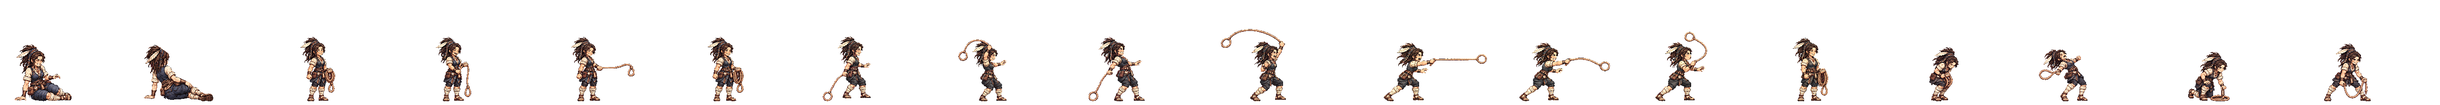
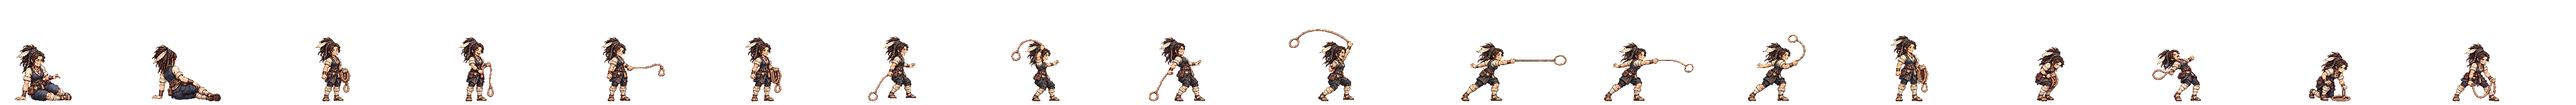
비라 휘두름: a 줄은 옛 판 · b 줄은 새 판(L34)으로 섞어 다시 설치 · 칸 폭 304 · 파란 팔 이름 박기는 안 먹음(기록)
Claude-Session: https://claude.ai/code/session_01TRiuN7s6aDfSnaHxrkctmU

diff --git a/tools/sprite-kit/anim-harness.py b/tools/sprite-kit/anim-harness.py
@@ -122,7 +122,7 @@ HEROES = {
     'bulmae': dict(hit=True, strip='gen-base-w-38-sangdang-bulmae', atk='chop', atk8=True, act=True),   # 상당 불매(쇠망치 · 가슴 M) · 11-25 도끼·망치 묶음
     'gom': dict(hit=True, strip='gen-gom', atk='chop', atk8=True, act=True, legacy=(('a', 1), ('b', 3), ('b', 3), ('b', 4))),   # 웅천 곰(가시 몽둥이 · 가슴 M) · 11-25 도끼·망치 묶음
     'malgalgi': dict(hit=True, strip='gen-malgalgi', atk='whip', actw=288, atk8=True, act=True, backfoot=True, legacy=(('a', 1), ('a', 3), ('b', 3), ('b', 4))),   # 사벌 말갈기(채찍 · 가슴 M · 배우는 판 장수) · 11-25 채찍 인형 시제품(뒷발 박힘 · 앞발 내딛음)
-    'bira': dict(hit=True, strip='gen-bira', atk='whip', src='lassof', actw=288, backfoot=True, atk8=True, act=True, legacy=(('a', 1), ('a', 3), ('b', 3), ('b', 4))),   # 미추홀 비라(밧줄 올가미 · 먼 손에 쥠 · 우람한 뼈대) · 11-25 밧줄 퍼뜨리기(말갈기 인형 whip 변형 lassof)
+    'bira': dict(hit=True, strip='gen-bira', atk='whip', src='lassof', actw=304, backfoot=True, atk8=True, act=True, legacy=(('a', 1), ('a', 3), ('b', 3), ('b', 4))),   # 미추홀 비라(밧줄 올가미 · 먼 손에 쥠 · 우람한 뼈대) · 11-25 밧줄 퍼뜨리기(말갈기 인형 whip 변형 lassof)
     'base-w-43-uga-nuri': dict(hit=True, strip='gen-base-w-43-uga-nuri', atk='whip', src='whip2f', actw=288, backfoot=True, atk8=True, act=True, legacy=(('a', 1), ('a', 3), ('b', 3), ('b', 4))),   # 우가 누리(밧줄 · 먼 손에 쥠 · 가슴 XL) · 11-25 밧줄 퍼뜨리기(whip2f)
     'base-w-45-tamna-oreumbi': dict(hit=True, strip='gen-base-w-45-tamna-oreumbi', atk='whip', src='lassof', actw=288, backfoot=True, atk8=True, act=True, legacy=(('a', 1), ('a', 3), ('b', 3), ('b', 4))),   # 탐라 오름비(밧줄 올가미 · 먼 손에 쥠 · 가슴 L) · 11-25 밧줄 퍼뜨리기(lassof)
     'dallae2': dict(hit=True, strip='gen-dallae2', atk='slash', atk8=True, act=True, legacy=(('a', 1), ('a', 3), ('b', 2), ('b', 4))),   # 살해 달래(굽은 단검 둘 · 가슴 M) · 11-25 열넷째 묶음

diff --git a/docs/realm/production/CLAUDE-HANDOFF-20261124.md b/docs/realm/production/CLAUDE-HANDOFF-20261124.md
@@ -389,3 +389,4 @@
   - 진하 방울 막대는 서기보다 칸에 따라 60~95%(눈대중).
 - **오늘 배운 것**: 주문 글의 「가까운 손」 「그림 오른쪽 손」이 **안내 인형의 팔과 어긋나면 손이 칸마다 바뀐다.** 몸이 3/4 로 돌아선 서기에서 그림 오른쪽 손은 인형의 파란(먼) 팔이다 → **서기를 받은 뒤 인형을 그림에 맞춘다**(`holdf` · `cast_handn` · 새 `wavef` · `hit_nonef`) · 그리고 Codex 가 첫 걷기를 인형대로 안 번갈아 그려 오면 다시 받아도 거의 같다(한 번 다시 받기로는 안 풀림).
 - **GIF · 펼친 판**: `tools/out/lineup/gen-dallae2-flow.gif` · `gen-aryeong-flow.gif` · `gen-base-w-29-golpo-janmul-flow.gif` · `gen-base-w-27-mokji-jinha-flow.gif` (`chk-gen-…-flowframes.png` 직접 봄). 못 본 것: 게임 화면 실제 재생 · 얼굴 8배 전수 · 무기 길이 정밀 화소 측정.
+- **비라 휘두름 다시 받기(L33·L34) 결과**: 「파란 팔 이름 박기」는 **안 먹었다**(Codex 전달 글 · 내 눈 · sonnet 모두 a1·a3 반대 손으로 앞 판과 같음). 앞 → 새: 반대 손 칸 2/8 → 2/8(a1·a3 · a2 는 둘 다 가려 불분명) · 뒷발 왼쪽 끝 앞 -30~-34 → 새 -28~-33(±2.5) · 밧줄 한 줄·길이 둘 다 같음 · 얼굴: 새 a2 에서 올린 팔 소매가 입을 흰 덩어리로 가림 · 옛 b1 은 입이 콧수염처럼 검게 뭉침. 그래서 **a 줄은 옛 판 · b 줄은 새 판**(독립 검수 sonnet 도 b 는 새 판이 낫고 a2 는 옛 판 얼굴이 단정하다고 함)으로 섞어 설치(`out-bira-lassof-a.png` = 옛 `-a-v1` · `-b.png` = 새 `-b-k2`). 새 b1 타격이 뿌리 앞 195px 라 칸 288 에 닿아(잘림) 하네스 줄 `actw=304`(덧띠 폭 5472 ÷ 18). 설치 순서: `bake_all.sh` → `strip install` → `hit-install` → `walk-rows.py --fix bira`(hit-install 이 걷기를 되돌리니 맨 끝). 칸 확대 판 `tools/out/w/bira-old-atk8.png` · `bira-new-atk8.png`.
